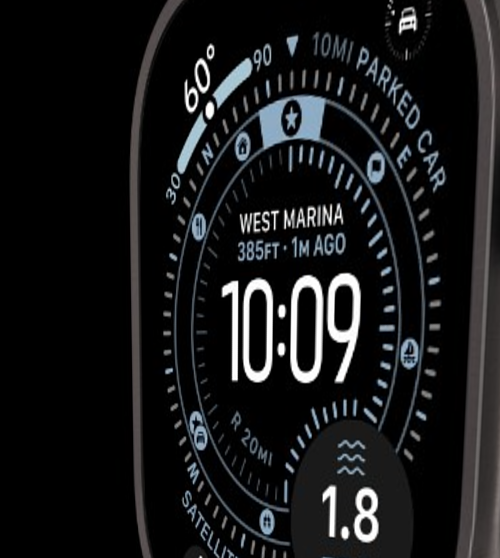
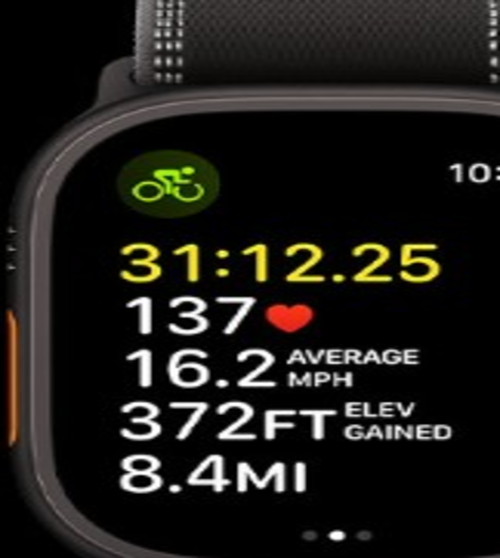
Replace hero watch screen with a flat cycling workout crop.
Use the front-facing Apple reference workout UI instead of the angled Modular Ultra photo so the screen fits the mockup cleanly.

diff --git a/web/components/WatchModularUltraScreen.tsx b/web/components/WatchModularUltraScreen.tsx
@@ -1,6 +1,6 @@
 import Image from "next/image";
 
-/** Apple Modular Ultra reference photo — extracted from the official product shot. */
+/** Flat cycling workout screen — cropped from Apple reference art. */
 export default function WatchModularUltraScreen() {
   return (
     <div className="watch-modular" aria-hidden>
